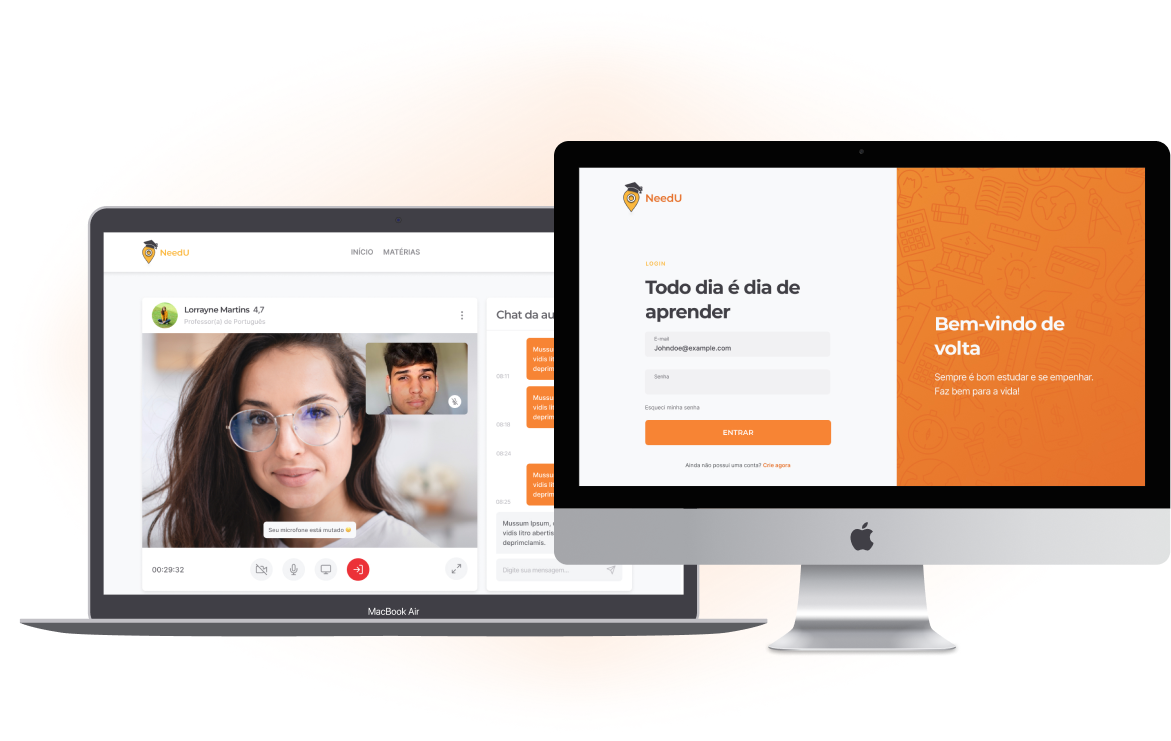
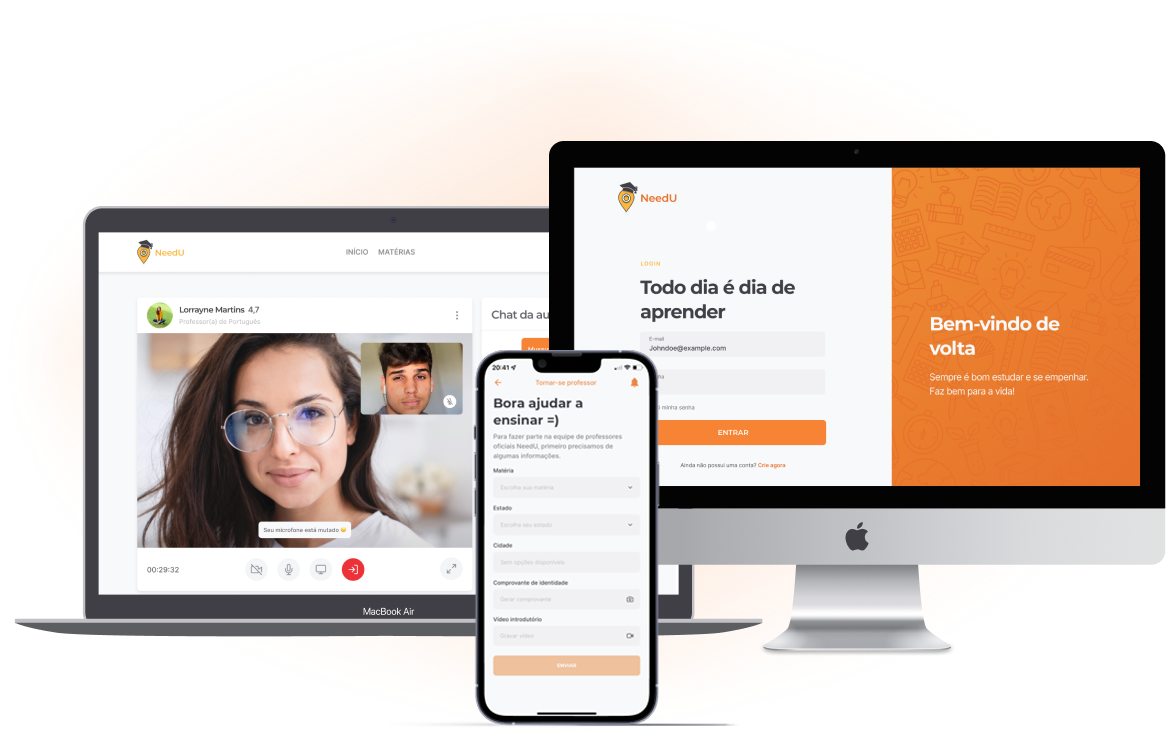
feat: adicionado mockup de iphone para needu e alterado texto do footer

diff --git a/src/app/page.tsx b/src/app/page.tsx
@@ -103,7 +103,7 @@ export default function Home() {
             </aside>
 
             <main className="mt-8 lg:mt-0 lg:ml-40 w-full">
-              <h1 className="text-xl mb-2">Um pouco mais sobre minha história com a <span className="text-complementaryTheme-400">Computação</span></h1>
+              <h1 className="text-xl mb-2">Um pouco mais sobre <span className="text-complementaryTheme-400">minha história com</span> a <span className="text-complementaryTheme-400">Computação</span></h1>
 
               <p>
                 Desde criança, sempre fui fascinado por computação e tecnologia. Meu interesse foi despertado pelo meu pai, dono de uma loja de reparo de computadores. Exploro a web desde 2008, descobri o poder da tecnologia em conectar pessoas e me encantei com suas possibilidades.

diff --git a/src/components/organisms/Footer/index.tsx b/src/components/organisms/Footer/index.tsx
@@ -1,9 +1,12 @@
-import React from 'react'
+'use client'
+import React, { useMemo } from 'react'
 
 export const Footer: React.FC = () => {
   return (
     <footer className="flex items-center justify-center w-full bg-slate-900 py-10 h-10">
-      <p className="font-bold text-center text-slate-50">Todos os direitos reservados © Rafael Sant’Ana</p>
+      <p className="font-bold text-center text-slate-50">
+        Todos os direitos reservados © de Rafael Sant{'’'}Ana.
+      </p>
     </footer>
   )
 }
